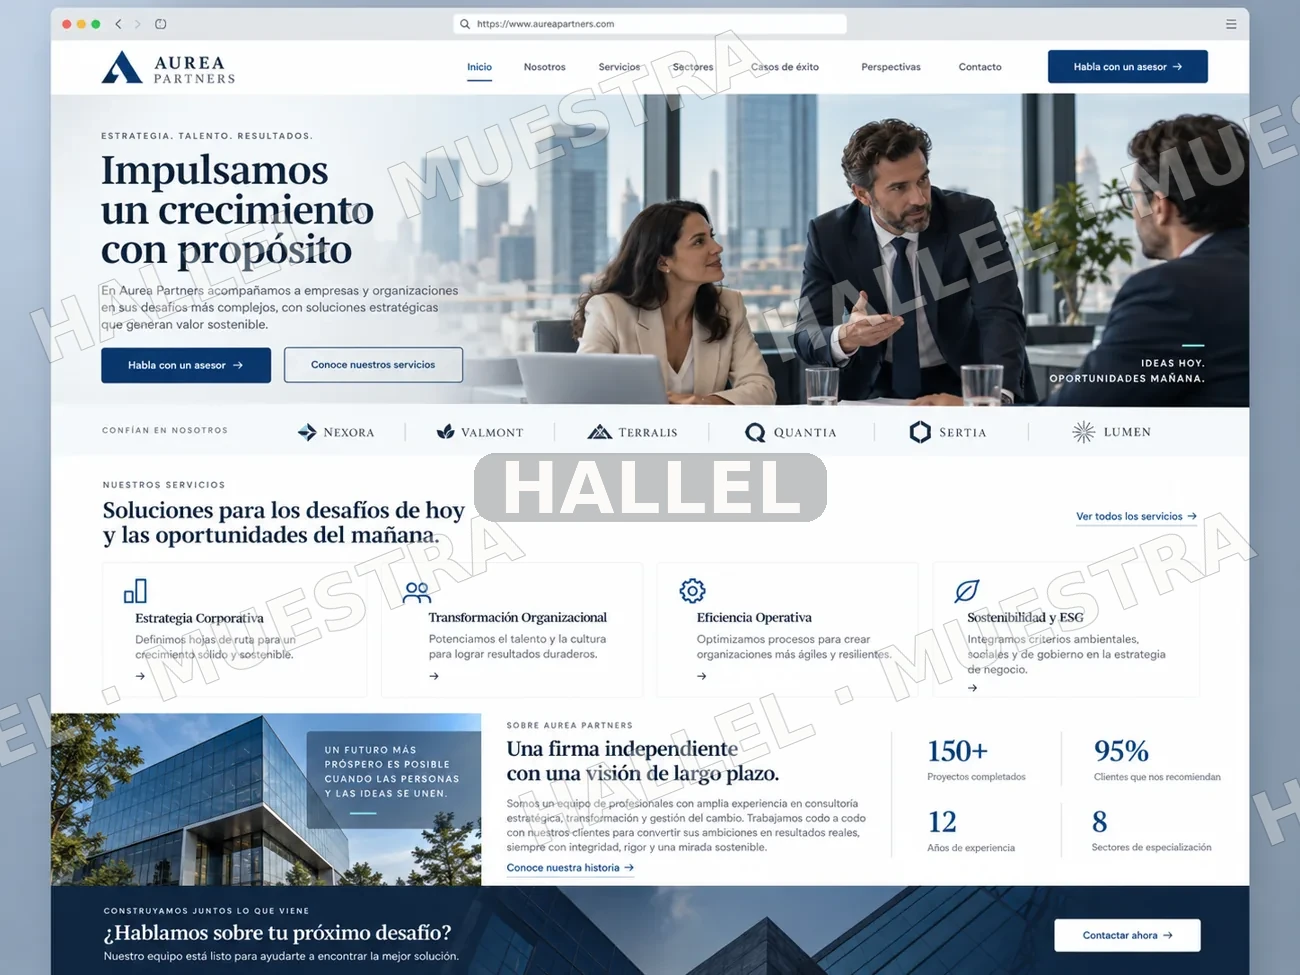
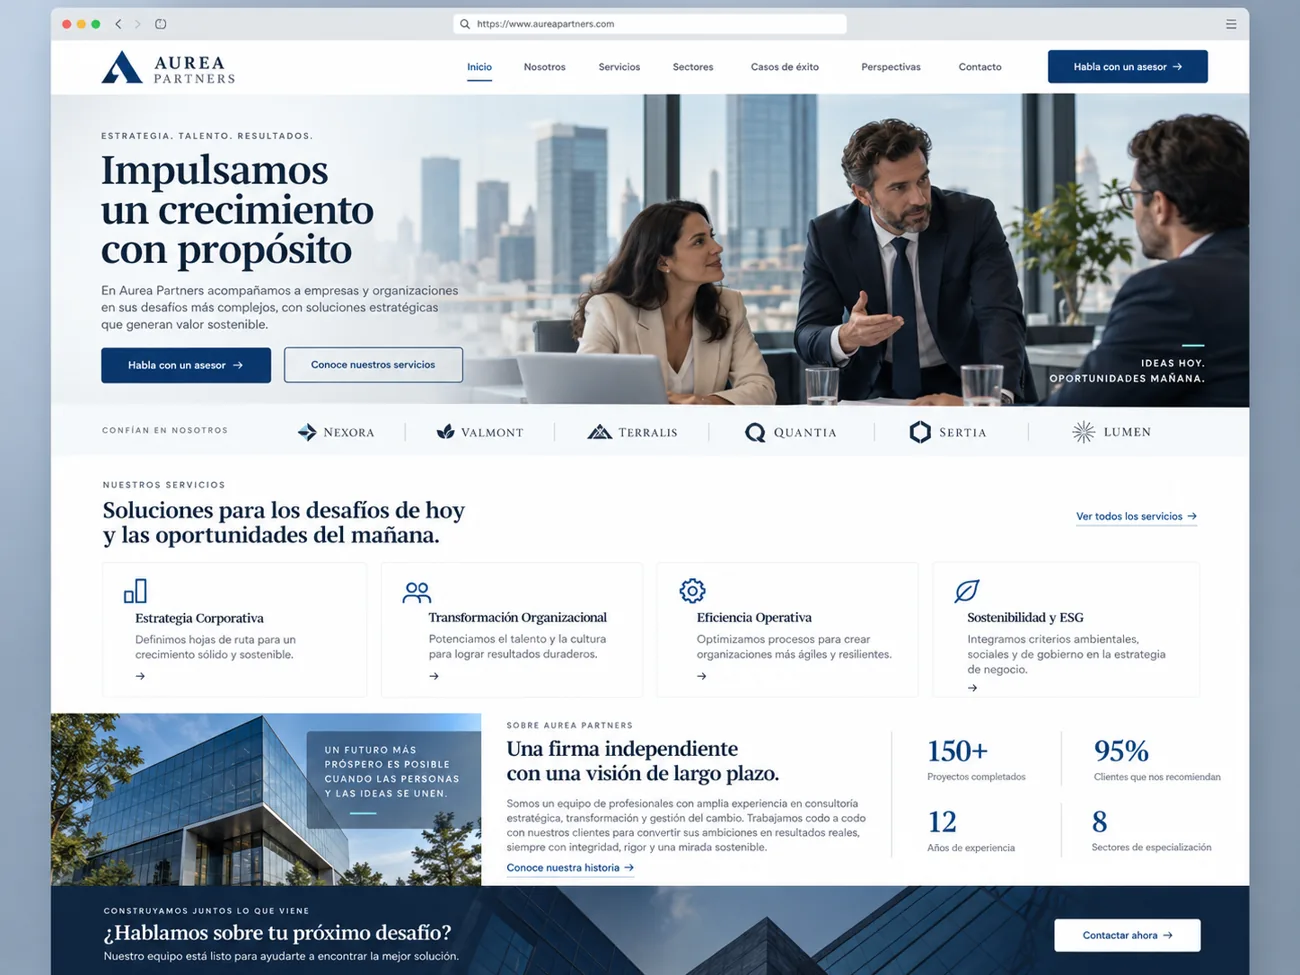
fix: scope image protection to HALLEL subsite and restore unrelated portfolio assets

diff --git a/scripts/watermark_public_assets.py b/scripts/watermark_public_assets.py
@@ -12,7 +12,7 @@ from pathlib import Path
 
 from PIL import Image, ImageDraw, ImageFont
 
-SITE_ROOTS = (Path("assets"), Path("hallel/assets"))
+SITE_ROOTS = (Path("hallel/assets"),) if Path("hallel/assets").is_dir() else (Path("assets"),)
 IMAGE_FOLDERS = ("design", "examples", "evidence", "results", "sites")
 EXTENSIONS = {".webp", ".png", ".jpg", ".jpeg"}
 LABEL = "HALLEL"
